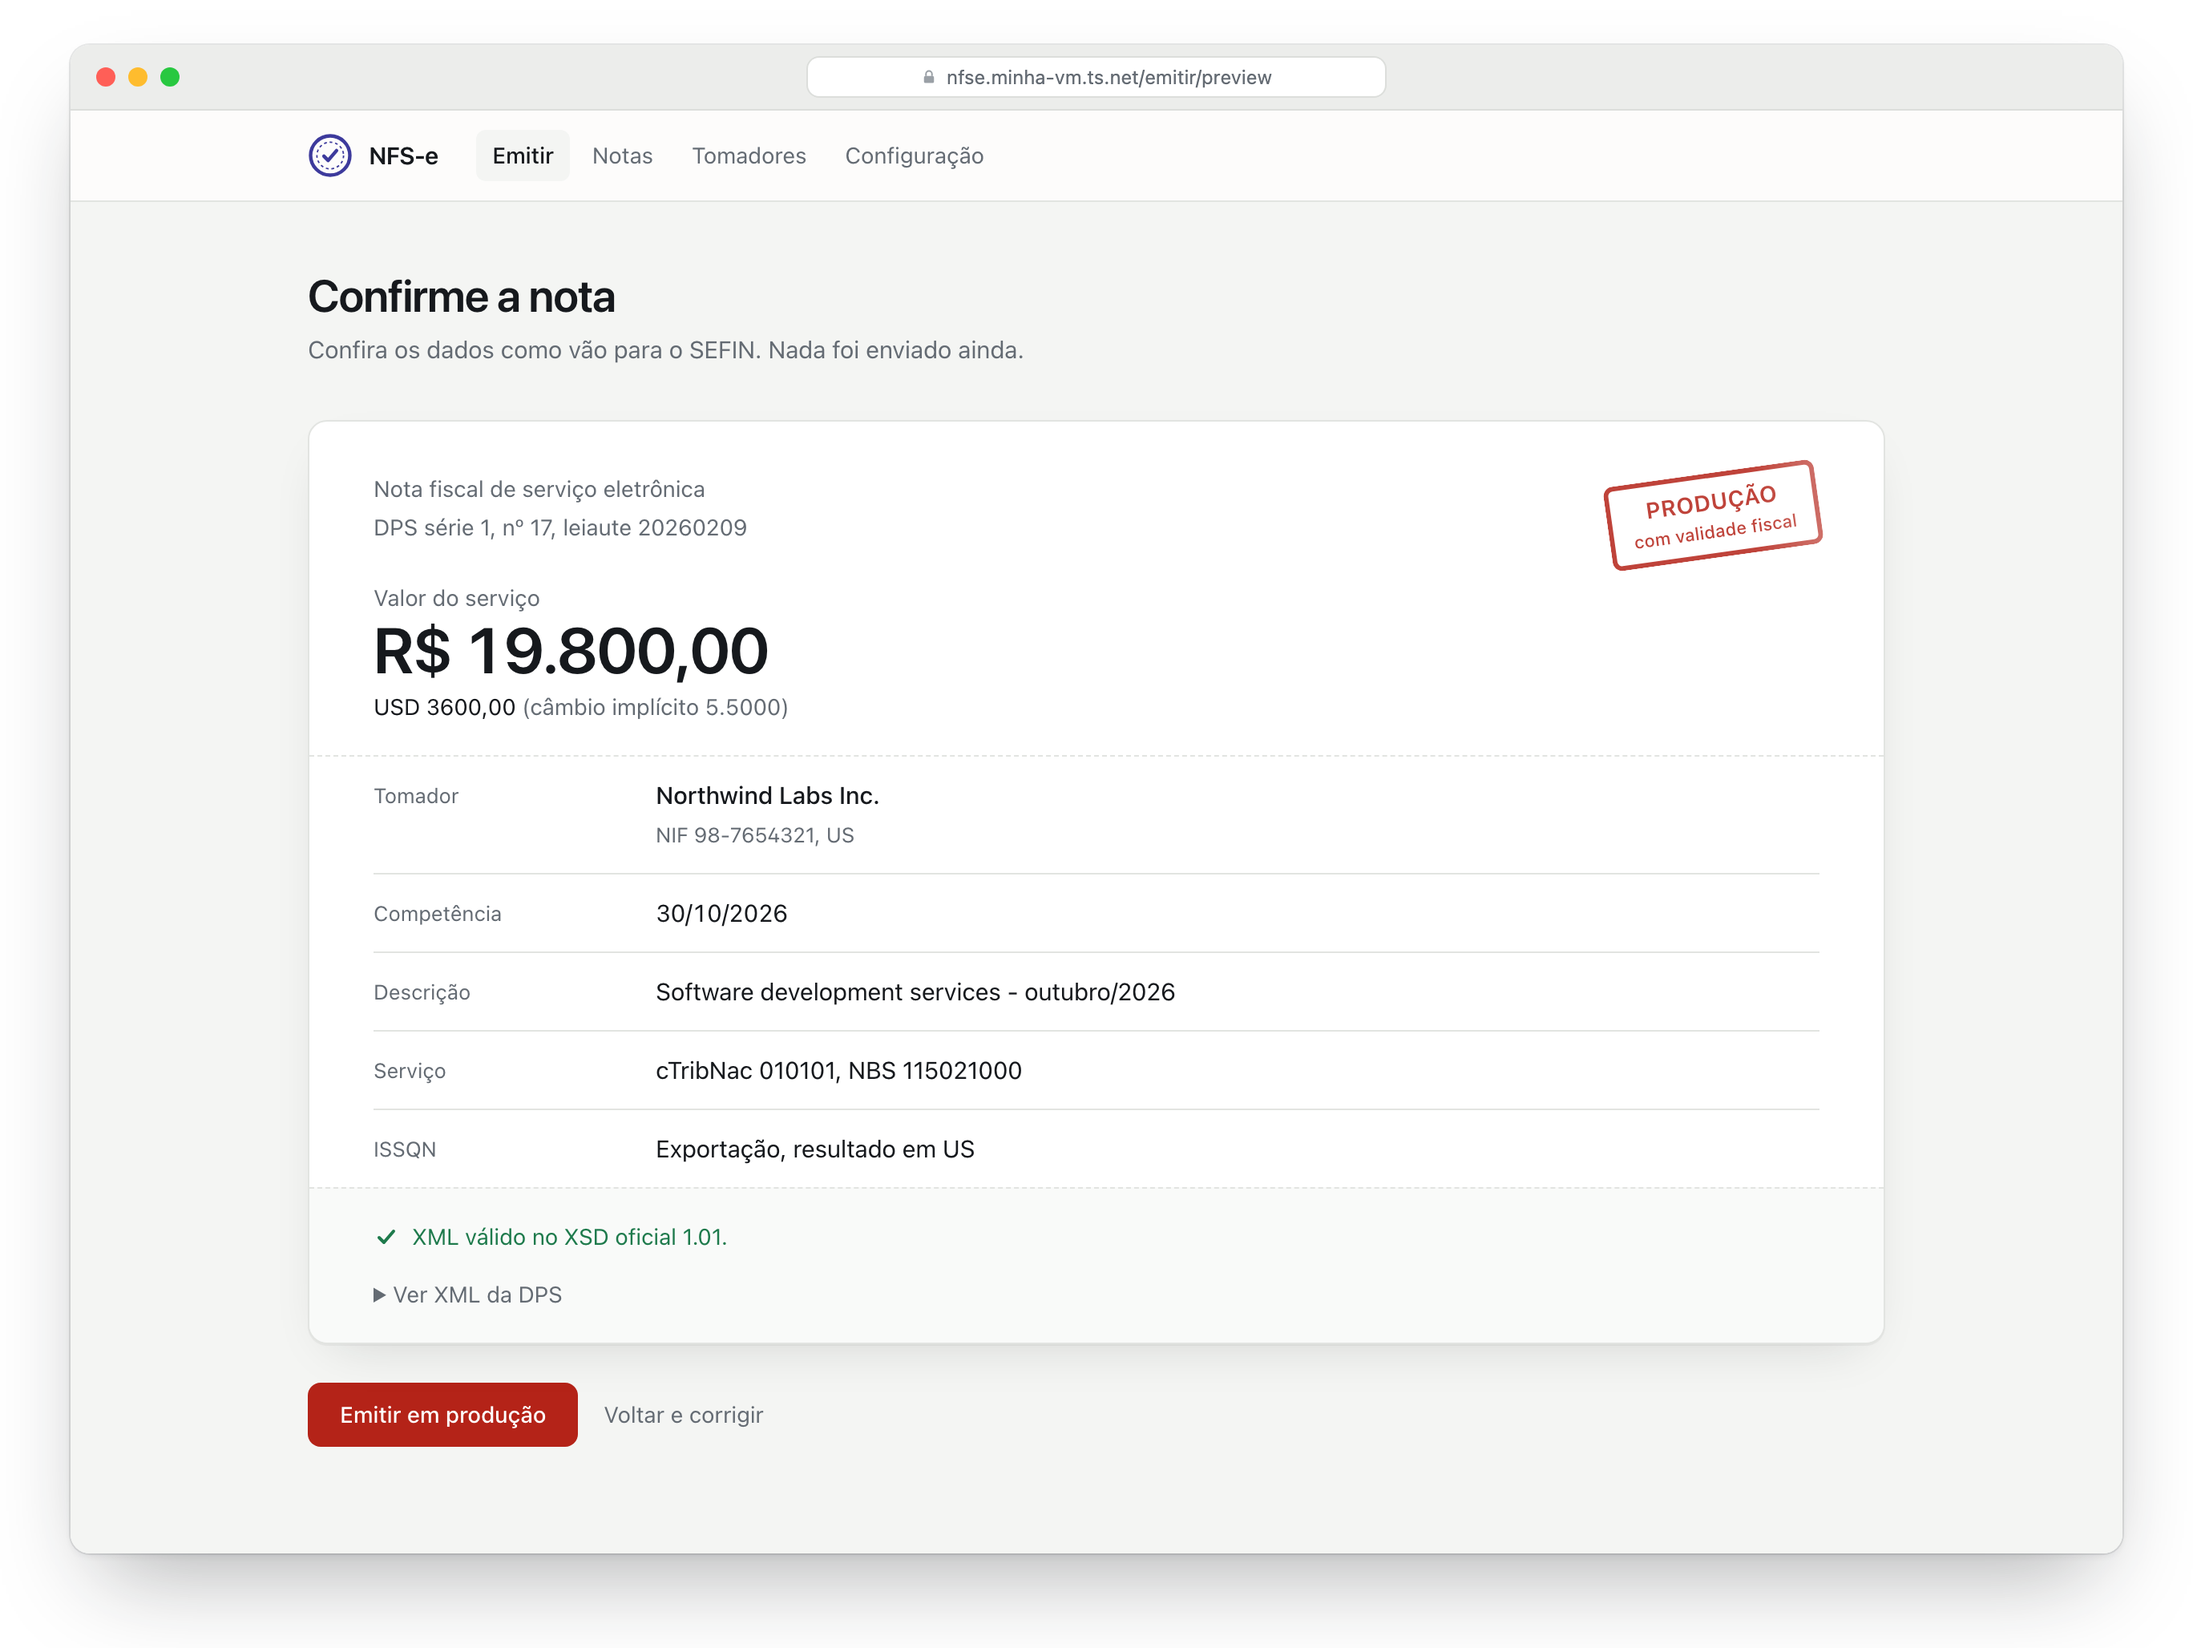
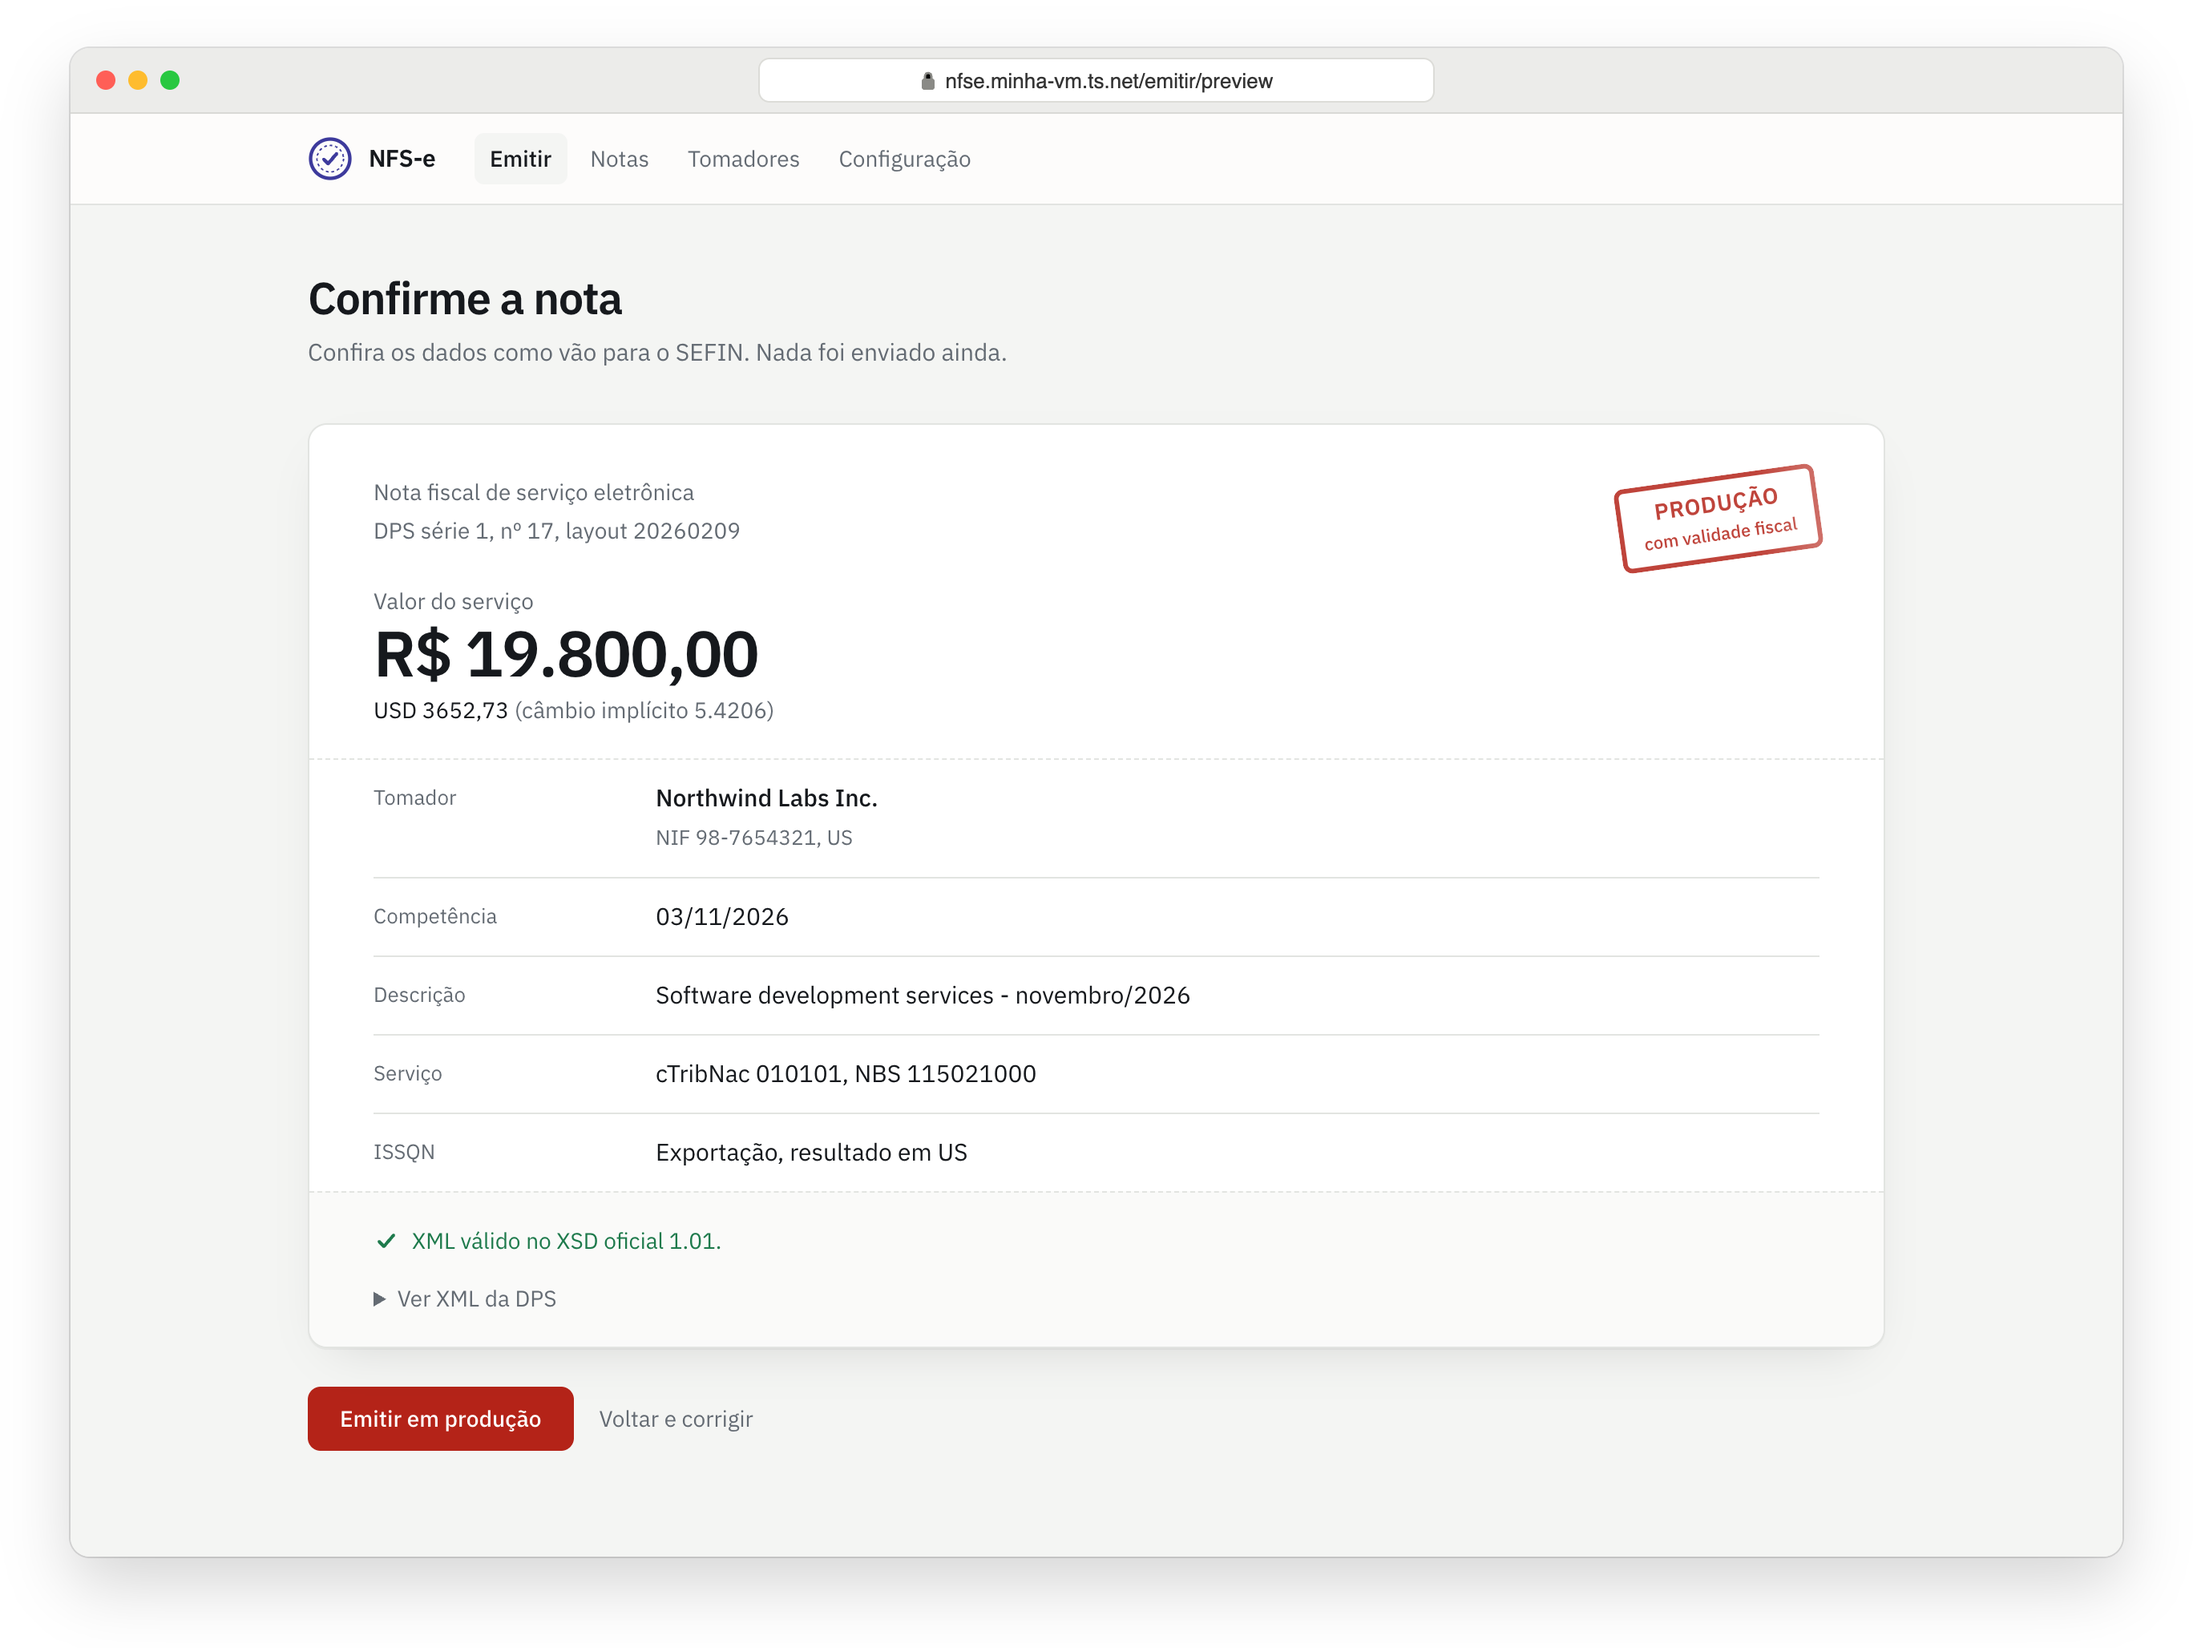
Adiciona GIFs de importação e emissão ao README

diff --git a/README.md b/README.md
@@ -32,7 +32,7 @@ carimbado: produção tem validade fiscal, homologação é só teste.
 
 <img src="docs/img/confirmacao.png" alt="Tela de confirmação da nota com o carimbo de produção e o XML validado" width="100%">
 
-<sub>Prints com dados fictícios, em modo mock e com certificado autoassinado.</sub>
+<sub>Prints e GIFs com dados fictícios, em modo mock e com certificado autoassinado.</sub>
 
 ## Primeiro uso (ordem importa)
 
@@ -41,6 +41,9 @@ carimbado: produção tem validade fiscal, homologação é só teste.
 2. **Importe o XML de uma nota que você já emitiu** (Emissor Nacional → Notas Emitidas → baixar XML)
    em *Tomadores → Importar de XML*. Isso cria o tomador com exatamente os códigos, a tributação e o
    grupo de comércio exterior da nota que já foi aceita, e preenche sua empresa.
+
+   <img src="docs/img/importar.gif" alt="Importando o XML de uma nota antiga: o tomador aparece na lista e a tela de emissão já vem com o molde dele" width="100%">
+
 3. Em *Configuração*, confira CNPJ, município e regime. O ambiente começa em **Homologação**.
 4. Emita uma nota de teste. Ela vai para a *produção restrita* (sem validade jurídica).
    Se vier rejeição, a mensagem do SEFIN (código E0xxx) aparece na tela; ajuste o molde do tomador.
@@ -50,6 +53,7 @@ A partir daí, cada mês é: botão "+ Nota para X" → valor → revisar → em
 preencha o valor em reais ou na moeda estrangeira: o outro campo é convertido sozinho pela PTAX de compra
 do Banco Central (último fechamento até a data de competência). Só a moeda e a data vão para o BCB.
 
+<img src="docs/img/emitir.gif" alt="Emitindo a nota do mês: o valor em reais é convertido para dólar pela PTAX, revisão com o XML validado e a NFS-e emitida" width="100%">
 
 Quando faltarem 90 dias ou menos para o certificado vencer, o painel e a tela *Configuração* mostram um aviso.
 Renovou? Envie o novo `.pfx` pela mesma tela: ele substitui o anterior na hora, sem reiniciar.
